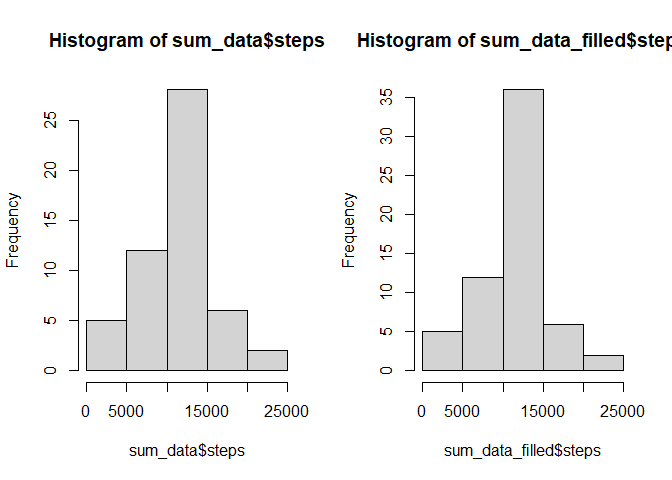
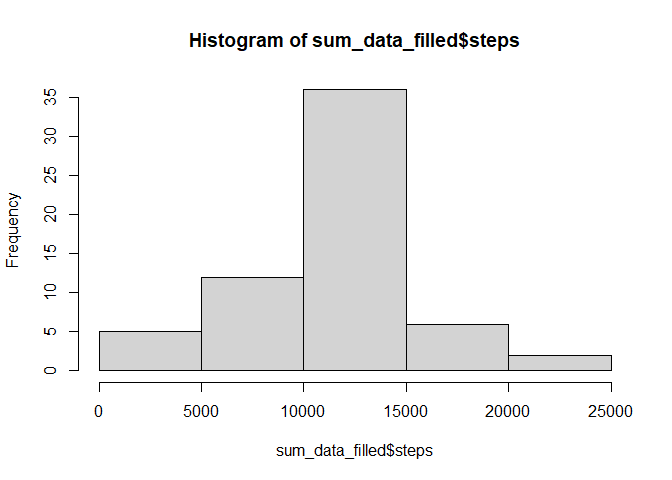
Final final commit

diff --git a/PA1_template.html b/PA1_template.html
@@ -205,6 +205,11 @@ sum_data &lt;- sum_data[complete.cases(sum_data$steps),]</code></pre>
 </ol>
 <pre class="r"><code>hist(sum_data$steps)</code></pre>
[1 lines of base64/hex data omitted]
+<pre class="r"><code>png(filename = &quot;./figure/plot1.png&quot;)
+hist(sum_data$steps)
+dev.off()</code></pre>
+<pre><code>## png 
+##   2</code></pre>
 <ol start="3" style="list-style-type: decimal">
 <li>Calculate and report the mean and median of the total number of steps taken per day</li>
 </ol>
@@ -221,16 +226,23 @@ median_steps</code></pre>
 <li>Make a time series plot (i.e. type = “l”type = “l”) of the 5-minute interval (x-axis) and the average number of steps taken, averaged across all days (y-axis)</li>
 </ol>
 <pre class="r"><code>interval_mean &lt;- aggregate(steps ~ interval, data = data,mean,na.rm = T)
+interval_mean$interval &lt;- as.integer(interval_mean$interval)
 plot(steps ~ interval,data = interval_mean,type = &quot;l&quot;)
 lines(interval_mean$steps)</code></pre>
[2 lines of base64/hex data omitted]
+<pre class="r"><code>png(filename = &quot;./figure/plot2.png&quot;)
+plot(steps ~ interval,data = interval_mean,type = &quot;l&quot;)
+lines(interval_mean$steps)
+dev.off()</code></pre>
+<pre><code>## png 
+##   2</code></pre>
 <ol start="2" style="list-style-type: decimal">
 <li>Which 5-minute interval, on average across all the days in the dataset, contains the maximum number of steps?</li>
 </ol>
 <pre class="r"><code>max_interval_steps = interval_mean[which.max(interval_mean$steps),]
 max_interval_steps</code></pre>
 <pre><code>##     interval    steps
-## 104      835 206.1698</code></pre>
+## 104      104 206.1698</code></pre>
 </div>
 <div id="imputing-missing-values" class="section level2">
 <h2>Imputing missing values</h2>
@@ -241,10 +253,11 @@ max_interval_steps</code></pre>
 na_sum</code></pre>
 <pre><code>## [1] 2304</code></pre>
 <ol start="2" style="list-style-type: decimal">
-<li><p>Devise a strategy for filling in all of the missing values in the dataset. The strategy does not need to be sophisticated. For example, you could use the mean/median for that day, or the mean for that 5-minute interval, etc.</p></li>
+<li><p>Devise a strategy for fillingprint(subset(interval_mean,interval == data_filled$interval[i])) in all of the missing values in the dataset. The strategy does not need to be sophisticated. For example, you could use the mean/median for that day, or the mean for that 5-minute interval, etc.</p></li>
 <li><p>Create a new dataset that is equal to the original dataset but with the missing data filled in.</p></li>
 </ol>
 <pre class="r"><code>data_filled = data
+data_filled$interval &lt;- as.integer(data_filled$interval)
 for (i in 1:nrow(data_filled)) {
   if(is.na(data_filled$steps[i])) {
     data_filled$steps[i] = subset(interval_mean,interval == data_filled$interval[i])$steps
@@ -254,10 +267,13 @@ for (i in 1:nrow(data_filled)) {
 <li>Make a histogram of the total number of steps taken each day and Calculate and report the mean and median total number of steps taken per day. Do these values differ from the estimates from the first part of the assignment? What is the impact of imputing missing data on the estimates of the total daily number of steps?</li>
 </ol>
 <pre class="r"><code>sum_data_filled &lt;- group_by(data_filled,date) %&gt;% summarise(steps = sum(steps))
-par(mfrow = c(1,2))
-hist(sum_data$steps)
 hist(sum_data_filled$steps)</code></pre>
[2 lines of base64/hex data omitted]
+<pre class="r"><code>png(filename = &quot;./figure/plot3.png&quot;)
+hist(sum_data_filled$steps)
+dev.off()</code></pre>
+<pre><code>## png 
+##   2</code></pre>
 <pre class="r"><code>mean_steps_filled &lt;- mean(sum_data_filled$steps)
 mean_steps_filled</code></pre>
 <pre><code>## [1] 10766.19</code></pre>
@@ -266,10 +282,7 @@ mean_steps_filled</code></pre>
 median_steps_filled</code></pre>
 <pre><code>## [1] 10766.19</code></pre>
 <pre class="r"><code>median_change &lt;- (1 - median_steps/median_steps_filled) * 100 </code></pre>
-<p>The mean did not change and the median changed bz about 0.011 %. Filling the data made the total daily number of steps bigger.</p>
-</div>
-<div id="are-there-differences-in-activity-patterns-between-weekdays-and-weekends" class="section level2">
-<h2>Are there differences in activity patterns between weekdays and weekends?</h2>
+<p>The mean did not change and the median changed bz about 0.011 %. Filling the data made the total daily number of steps bigger. kniu ## Are there differences in activity patterns between weekdays and weekends?</p>
 <ol style="list-style-type: decimal">
 <li>Create a new factor variable in the dataset with two levels – “weekday” and “weekend” indicating whether a given date is a weekday or weekend day.</li>
 </ol>
@@ -288,8 +301,14 @@ data_filled$dayType &lt;- as.factor(data_filled$dayType)</code></pre>
 data_filled_mean$interval &lt;- as.integer(data_filled_mean$interval)
 library(lattice)
 xyplot(steps ~ interval | dayType, data_filled_mean, type = &quot;l&quot;, layout = c(1, 2), 
-    xlab = &quot;Interval&quot;, ylab = &quot;Number of steps&quot;,)</code></pre>
+    xlab = &quot;Interval&quot;, ylab = &quot;Number of steps&quot;)</code></pre>
[1 lines of base64/hex data omitted]
+<pre class="r"><code>png(filename = &quot;./figure/plot4.png&quot;)
+xyplot(steps ~ interval | dayType, data_filled_mean, type = &quot;l&quot;, layout = c(1, 2), 
+    xlab = &quot;Interval&quot;, ylab = &quot;Number of steps&quot;)
+dev.off()</code></pre>
+<pre><code>## png 
+##   2</code></pre>
 </div>
 
 

diff --git a/PA1_template.md b/PA1_template.md
@@ -67,6 +67,17 @@ hist(sum_data$steps)
 
 ![](PA1_template_files/figure-html/unnamed-chunk-3-1.png)<!-- -->
 
+```r
+png(filename = "./figure/plot1.png")
+hist(sum_data$steps)
+dev.off()
+```
+
+```
+## png 
+##   2
+```
+
 3. Calculate and report the mean and median of the total number of steps taken per day
 
 ```r
@@ -93,11 +104,24 @@ median_steps
 
 ```r
 interval_mean <- aggregate(steps ~ interval, data = data,mean,na.rm = T)
+interval_mean$interval <- as.integer(interval_mean$interval)
 plot(steps ~ interval,data = interval_mean,type = "l")
 lines(interval_mean$steps)
 ```
 
 ![](PA1_template_files/figure-html/unnamed-chunk-6-1.png)<!-- -->
+
+```r
+png(filename = "./figure/plot2.png")
+plot(steps ~ interval,data = interval_mean,type = "l")
+lines(interval_mean$steps)
+dev.off()
+```
+
+```
+## png 
+##   2
+```
 
 2. Which 5-minute interval, on average across all the days in the dataset, contains the maximum number of steps?
 
@@ -108,7 +132,7 @@ max_interval_steps
 
 ```
 ##     interval    steps
-## 104      835 206.1698
+## 104      104 206.1698
 ```
 
 ## Imputing missing values
@@ -123,12 +147,13 @@ na_sum
 ```
 ## [1] 2304
 ```
-2. Devise a strategy for filling in all of the missing values in the dataset. The strategy does not need to be sophisticated. For example, you could use the mean/median for that day, or the mean for that 5-minute interval, etc.
+2. Devise a strategy for fillingprint(subset(interval_mean,interval == data_filled$interval[i])) in all of the missing values in the dataset. The strategy does not need to be sophisticated. For example, you could use the mean/median for that day, or the mean for that 5-minute interval, etc.
 
 3. Create a new dataset that is equal to the original dataset but with the missing data filled in.
 
 ```r
 data_filled = data
+data_filled$interval <- as.integer(data_filled$interval)
 for (i in 1:nrow(data_filled)) {
   if(is.na(data_filled$steps[i])) {
     data_filled$steps[i] = subset(interval_mean,interval == data_filled$interval[i])$steps
@@ -140,12 +165,21 @@ for (i in 1:nrow(data_filled)) {
 
 ```r
 sum_data_filled <- group_by(data_filled,date) %>% summarise(steps = sum(steps))
-par(mfrow = c(1,2))
-hist(sum_data$steps)
 hist(sum_data_filled$steps)
 ```
 
 ![](PA1_template_files/figure-html/unnamed-chunk-10-1.png)<!-- -->
+
+```r
+png(filename = "./figure/plot3.png")
+hist(sum_data_filled$steps)
+dev.off()
+```
+
+```
+## png 
+##   2
+```
 
 ```r
 mean_steps_filled <- mean(sum_data_filled$steps)
@@ -175,7 +209,7 @@ median_change <- (1 - median_steps/median_steps_filled) * 100
 
 The mean did not change and the median changed bz about 0.011 %.
 Filling the data made the total daily number of steps bigger.
-
+kniu
 ## Are there differences in activity patterns between weekdays and weekends?
 
 1. Create a new factor variable in the dataset with two levels – “weekday” and “weekend” indicating whether a given date is a weekday or weekend day.
@@ -199,7 +233,19 @@ data_filled_mean <- aggregate(steps ~ interval + dayType, data = data_filled,mea
 data_filled_mean$interval <- as.integer(data_filled_mean$interval)
 library(lattice)
 xyplot(steps ~ interval | dayType, data_filled_mean, type = "l", layout = c(1, 2), 
-    xlab = "Interval", ylab = "Number of steps",)
+    xlab = "Interval", ylab = "Number of steps")
 ```
 
 ![](PA1_template_files/figure-html/unnamed-chunk-14-1.png)<!-- -->
+
+```r
+png(filename = "./figure/plot4.png")
+xyplot(steps ~ interval | dayType, data_filled_mean, type = "l", layout = c(1, 2), 
+    xlab = "Interval", ylab = "Number of steps")
+dev.off()
+```
+
+```
+## png 
+##   2
+```
